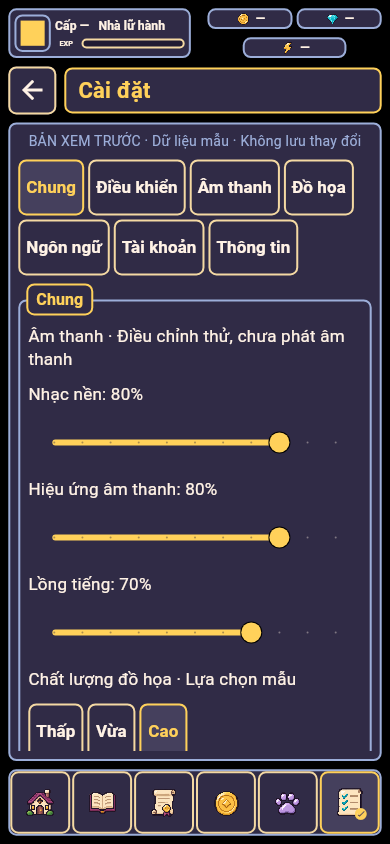
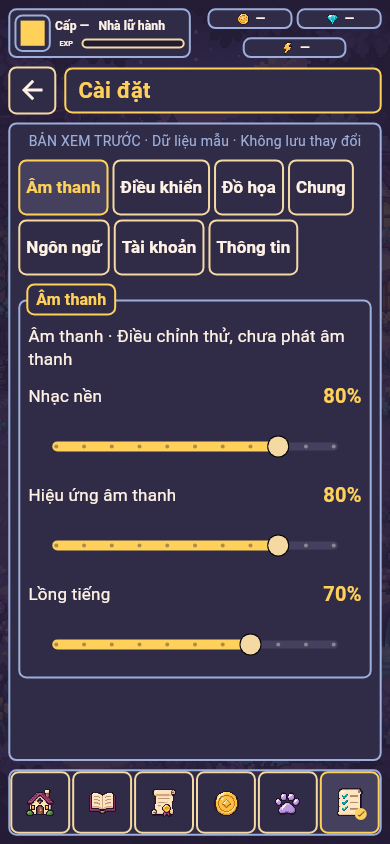
feat: simplify settings and enlarge toggle interactions
Start with focused audio settings and clearly separated volume values. Make entire switch rows interactive so labels are useful touch targets while preserving preview-only state.

diff --git a/lib/features/settings/presentation/settings_screen.dart b/lib/features/settings/presentation/settings_screen.dart
@@ -2,6 +2,8 @@ import 'package:flutter/material.dart';
 
 import '../../../app/presentation/menu_components.dart';
 import '../../../app/presentation/menu_shell.dart';
+import '../../../app/theme/game_typography.dart';
+import '../../../app/theme/pixel_ui_colors.dart';
 
 /// Local widget selections demonstrate controls; no device or save settings.
 class SettingsScreen extends StatefulWidget {
@@ -13,7 +15,7 @@ class SettingsScreen extends StatefulWidget {
 }
 
 class _SettingsScreenState extends State<SettingsScreen> {
-  var _category = 'Chung';
+  var _category = 'Âm thanh';
   final _volumes = <String, double>{
     'Nhạc nền': 80,
     'Hiệu ứng âm thanh': 80,
@@ -39,10 +41,10 @@ class _SettingsScreenState extends State<SettingsScreen> {
         runSpacing: 4,
         children: [
           for (final category in [
-            'Chung',
-            'Điều khiển',
             'Âm thanh',
+            'Điều khiển',
             'Đồ họa',
+            'Chung',
             'Ngôn ngữ',
             'Tài khoản',
             'Thông tin',
@@ -65,15 +67,33 @@ class _SettingsScreenState extends State<SettingsScreen> {
       if (_category == 'Chung' || _category == 'Âm thanh') ...[
         const Text('Âm thanh · Điều chỉnh thử, chưa phát âm thanh'),
         for (final entry in _volumes.entries) ...[
-          Text('${entry.key}: ${entry.value.round()}%'),
-          Slider(
-            semanticFormatterCallback: (value) => '${value.round()} phần trăm',
-            value: entry.value,
-            min: 0,
-            max: 100,
-            divisions: 10,
-            label: '${entry.value.round()}%',
-            onChanged: (value) => setState(() => _volumes[entry.key] = value),
+          Row(
+            spacing: 8,
+            children: [
+              Expanded(child: Text(entry.key)),
+              Text(
+                '${entry.value.round()}%',
+                style: GameTypography.value.copyWith(color: PixelUiColors.gold),
+              ),
+            ],
+          ),
+          SliderTheme(
+            data: SliderTheme.of(context).copyWith(
+              trackHeight: 8,
+              activeTrackColor: PixelUiColors.gold,
+              inactiveTrackColor: PixelUiColors.raised,
+              thumbColor: PixelUiColors.cream,
+            ),
+            child: Slider(
+              semanticFormatterCallback: (value) =>
+                  '${value.round()} phần trăm',
+              value: entry.value,
+              min: 0,
+              max: 100,
+              divisions: 10,
+              label: '${entry.value.round()}%',
+              onChanged: (value) => setState(() => _volumes[entry.key] = value),
+            ),
           ),
         ],
       ],
@@ -131,17 +151,12 @@ class _SettingsScreenState extends State<SettingsScreen> {
     ],
   );
 
-  Widget _toggle(String label) => Column(
-    crossAxisAlignment: CrossAxisAlignment.start,
-    children: [
-      Text(label),
-      Semantics(
-        label: label,
-        child: Switch(
-          value: _toggles[label]!,
-          onChanged: (value) => setState(() => _toggles[label] = value),
-        ),
-      ),
-    ],
+  Widget _toggle(String label) => SwitchListTile(
+    contentPadding: EdgeInsets.zero,
+    title: Text(label),
+    activeThumbColor: PixelUiColors.gold,
+    activeTrackColor: PixelUiColors.raised,
+    value: _toggles[label]!,
+    onChanged: (value) => setState(() => _toggles[label] = value),
   );
 }

diff --git a/test/app/menu_navigation_test.dart b/test/app/menu_navigation_test.dart
@@ -96,6 +96,9 @@ void main() {
     await tester.tap(toggle);
     await tester.pumpAndSettle();
     expect(tester.widget<Switch>(toggle).value, isFalse);
+    await tester.tap(find.text('Hiện vùng tương tác'));
+    await tester.pumpAndSettle();
+    expect(tester.widget<Switch>(toggle).value, isTrue);
     expect(tester.takeException(), isNull);
   });
 

diff --git a/docs/art/ui-guidelines.md b/docs/art/ui-guidelines.md
@@ -179,3 +179,7 @@ nhãn xem chi tiết. Gói khởi hành chỉ hiện ở Đề cử để bộ l
 
 Hồ sơ dùng thẻ giấy kem với portrait nhà lữ hành cùng Home, tên/ID mẫu và EXP.
 Các mục sưu tầm/huy hiệu dùng lưới có tên để nhận biết trước khi chạm.
+
+Cài đặt mở nhóm Âm thanh để tránh trộn mọi điều khiển vào một trang dài.
+Âm lượng có tên bên trái, phần trăm vàng bên phải và track 8 dp. Công tắc
+dùng cả hàng nhãn làm vùng chạm; chữ được xuống dòng theo text scale.
